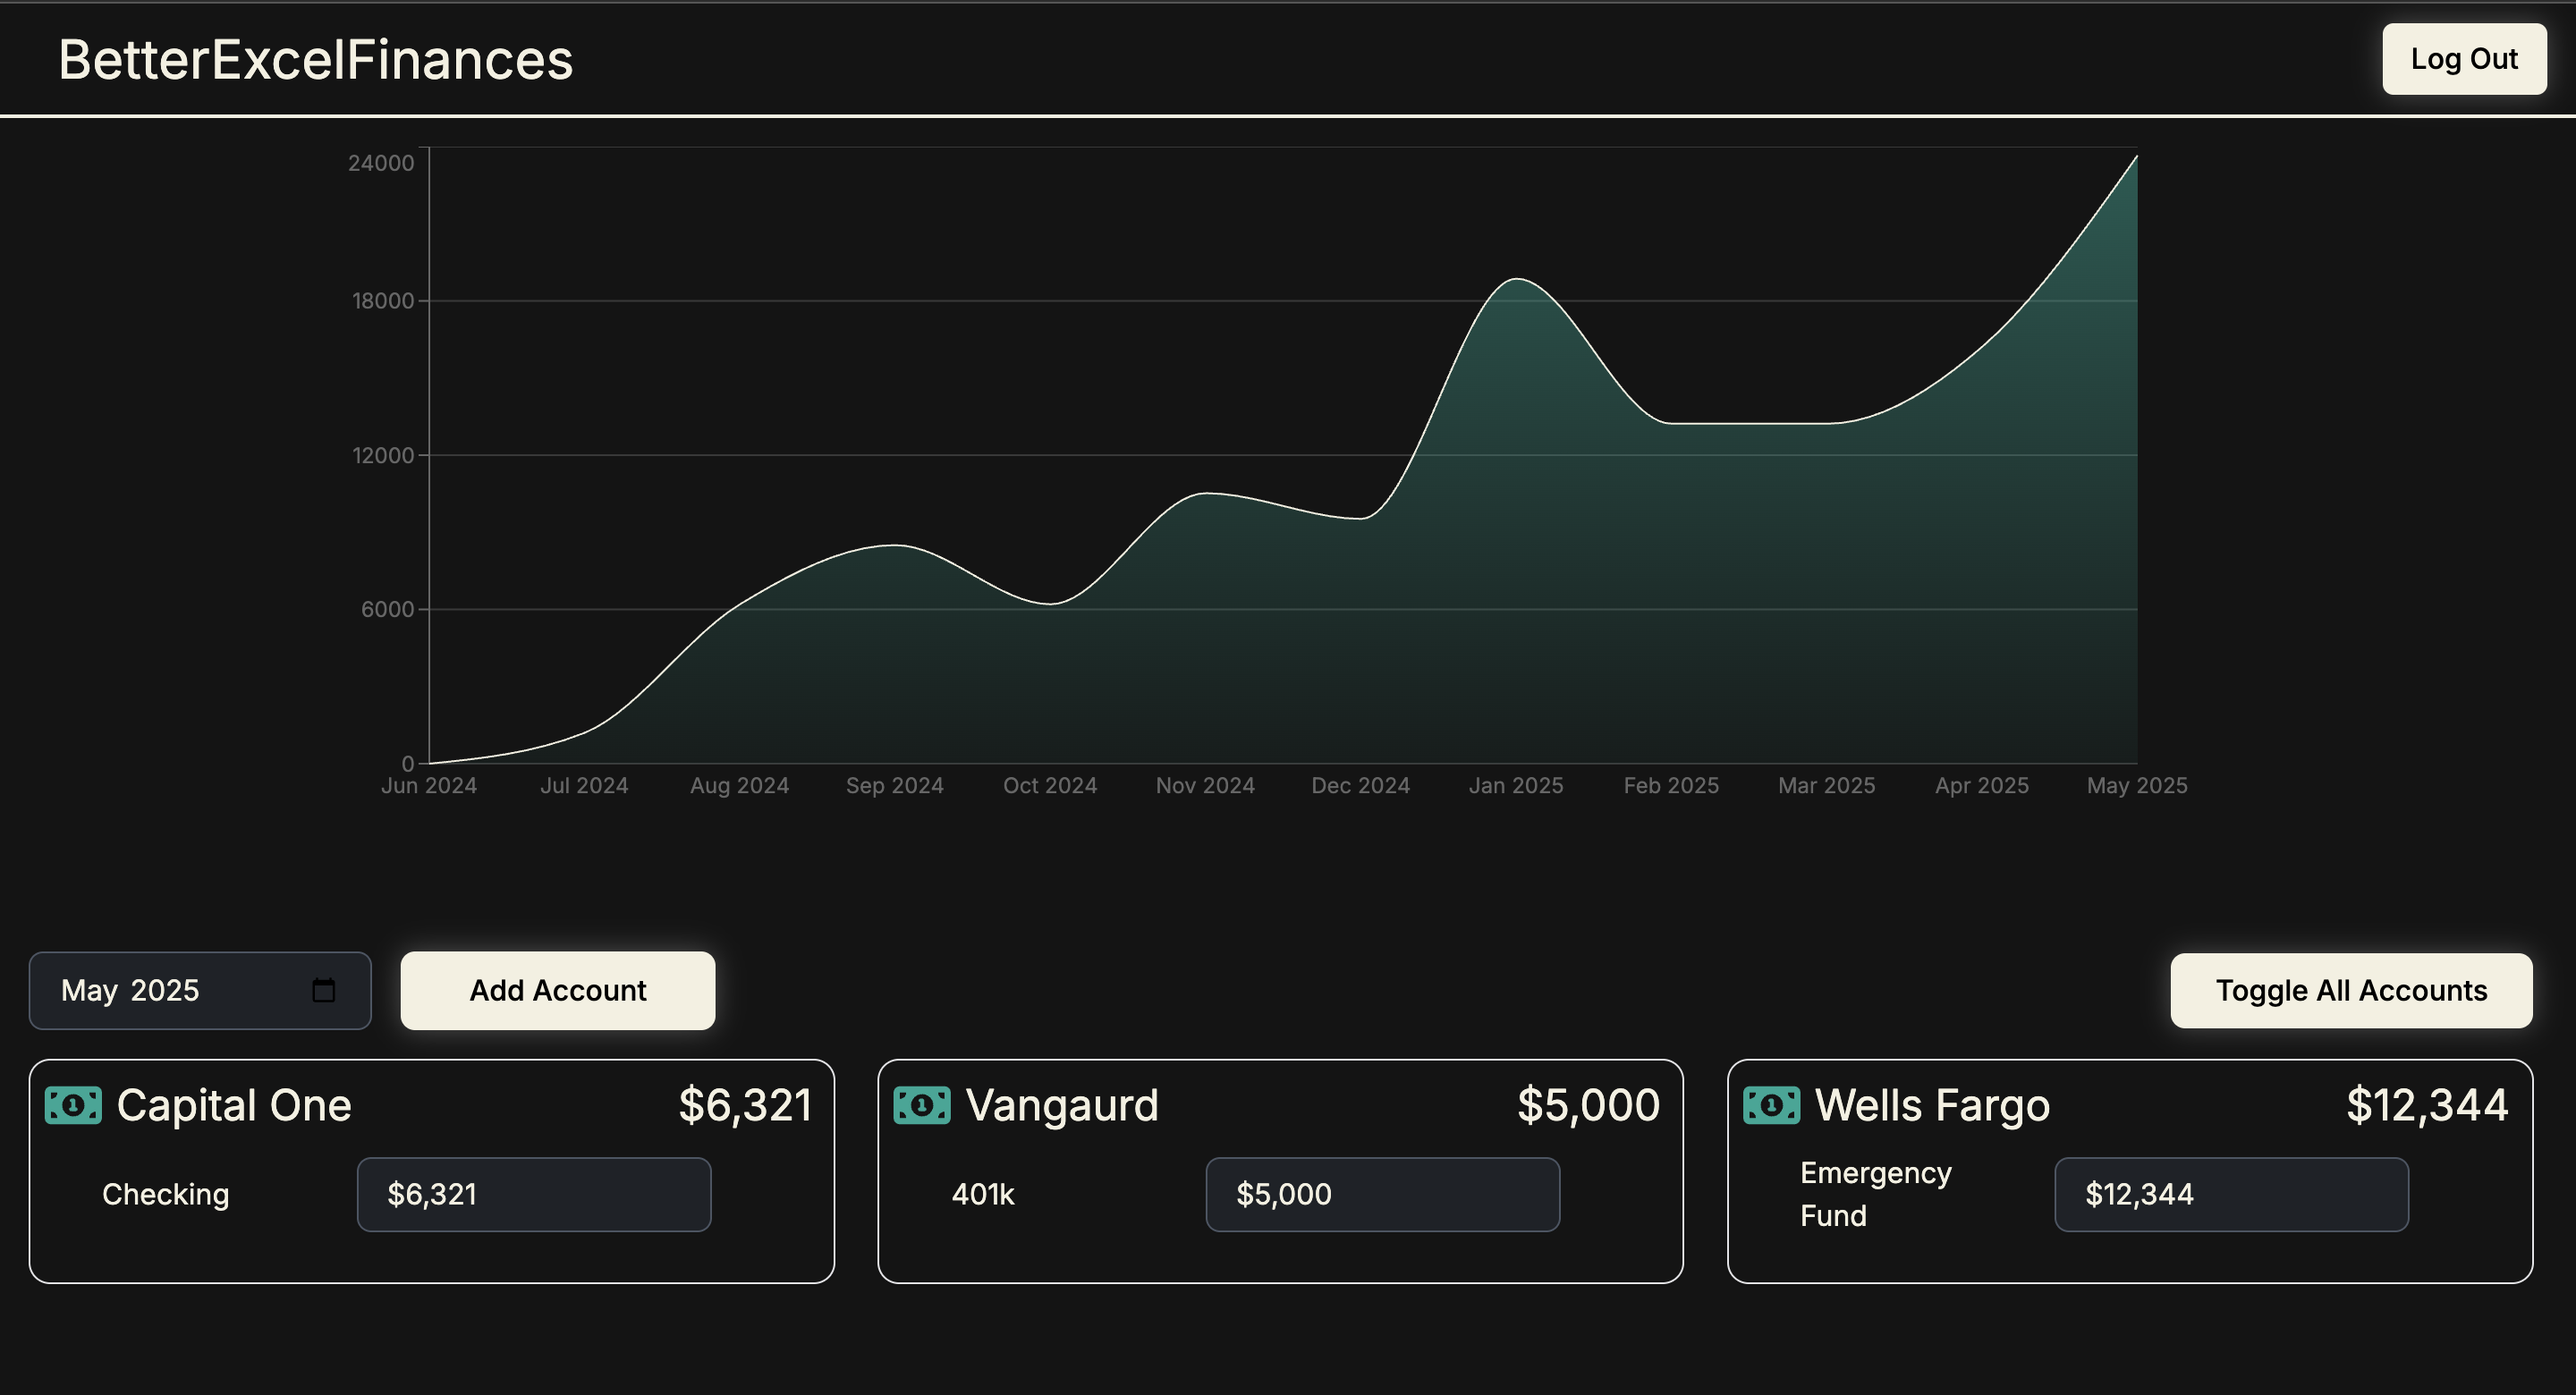
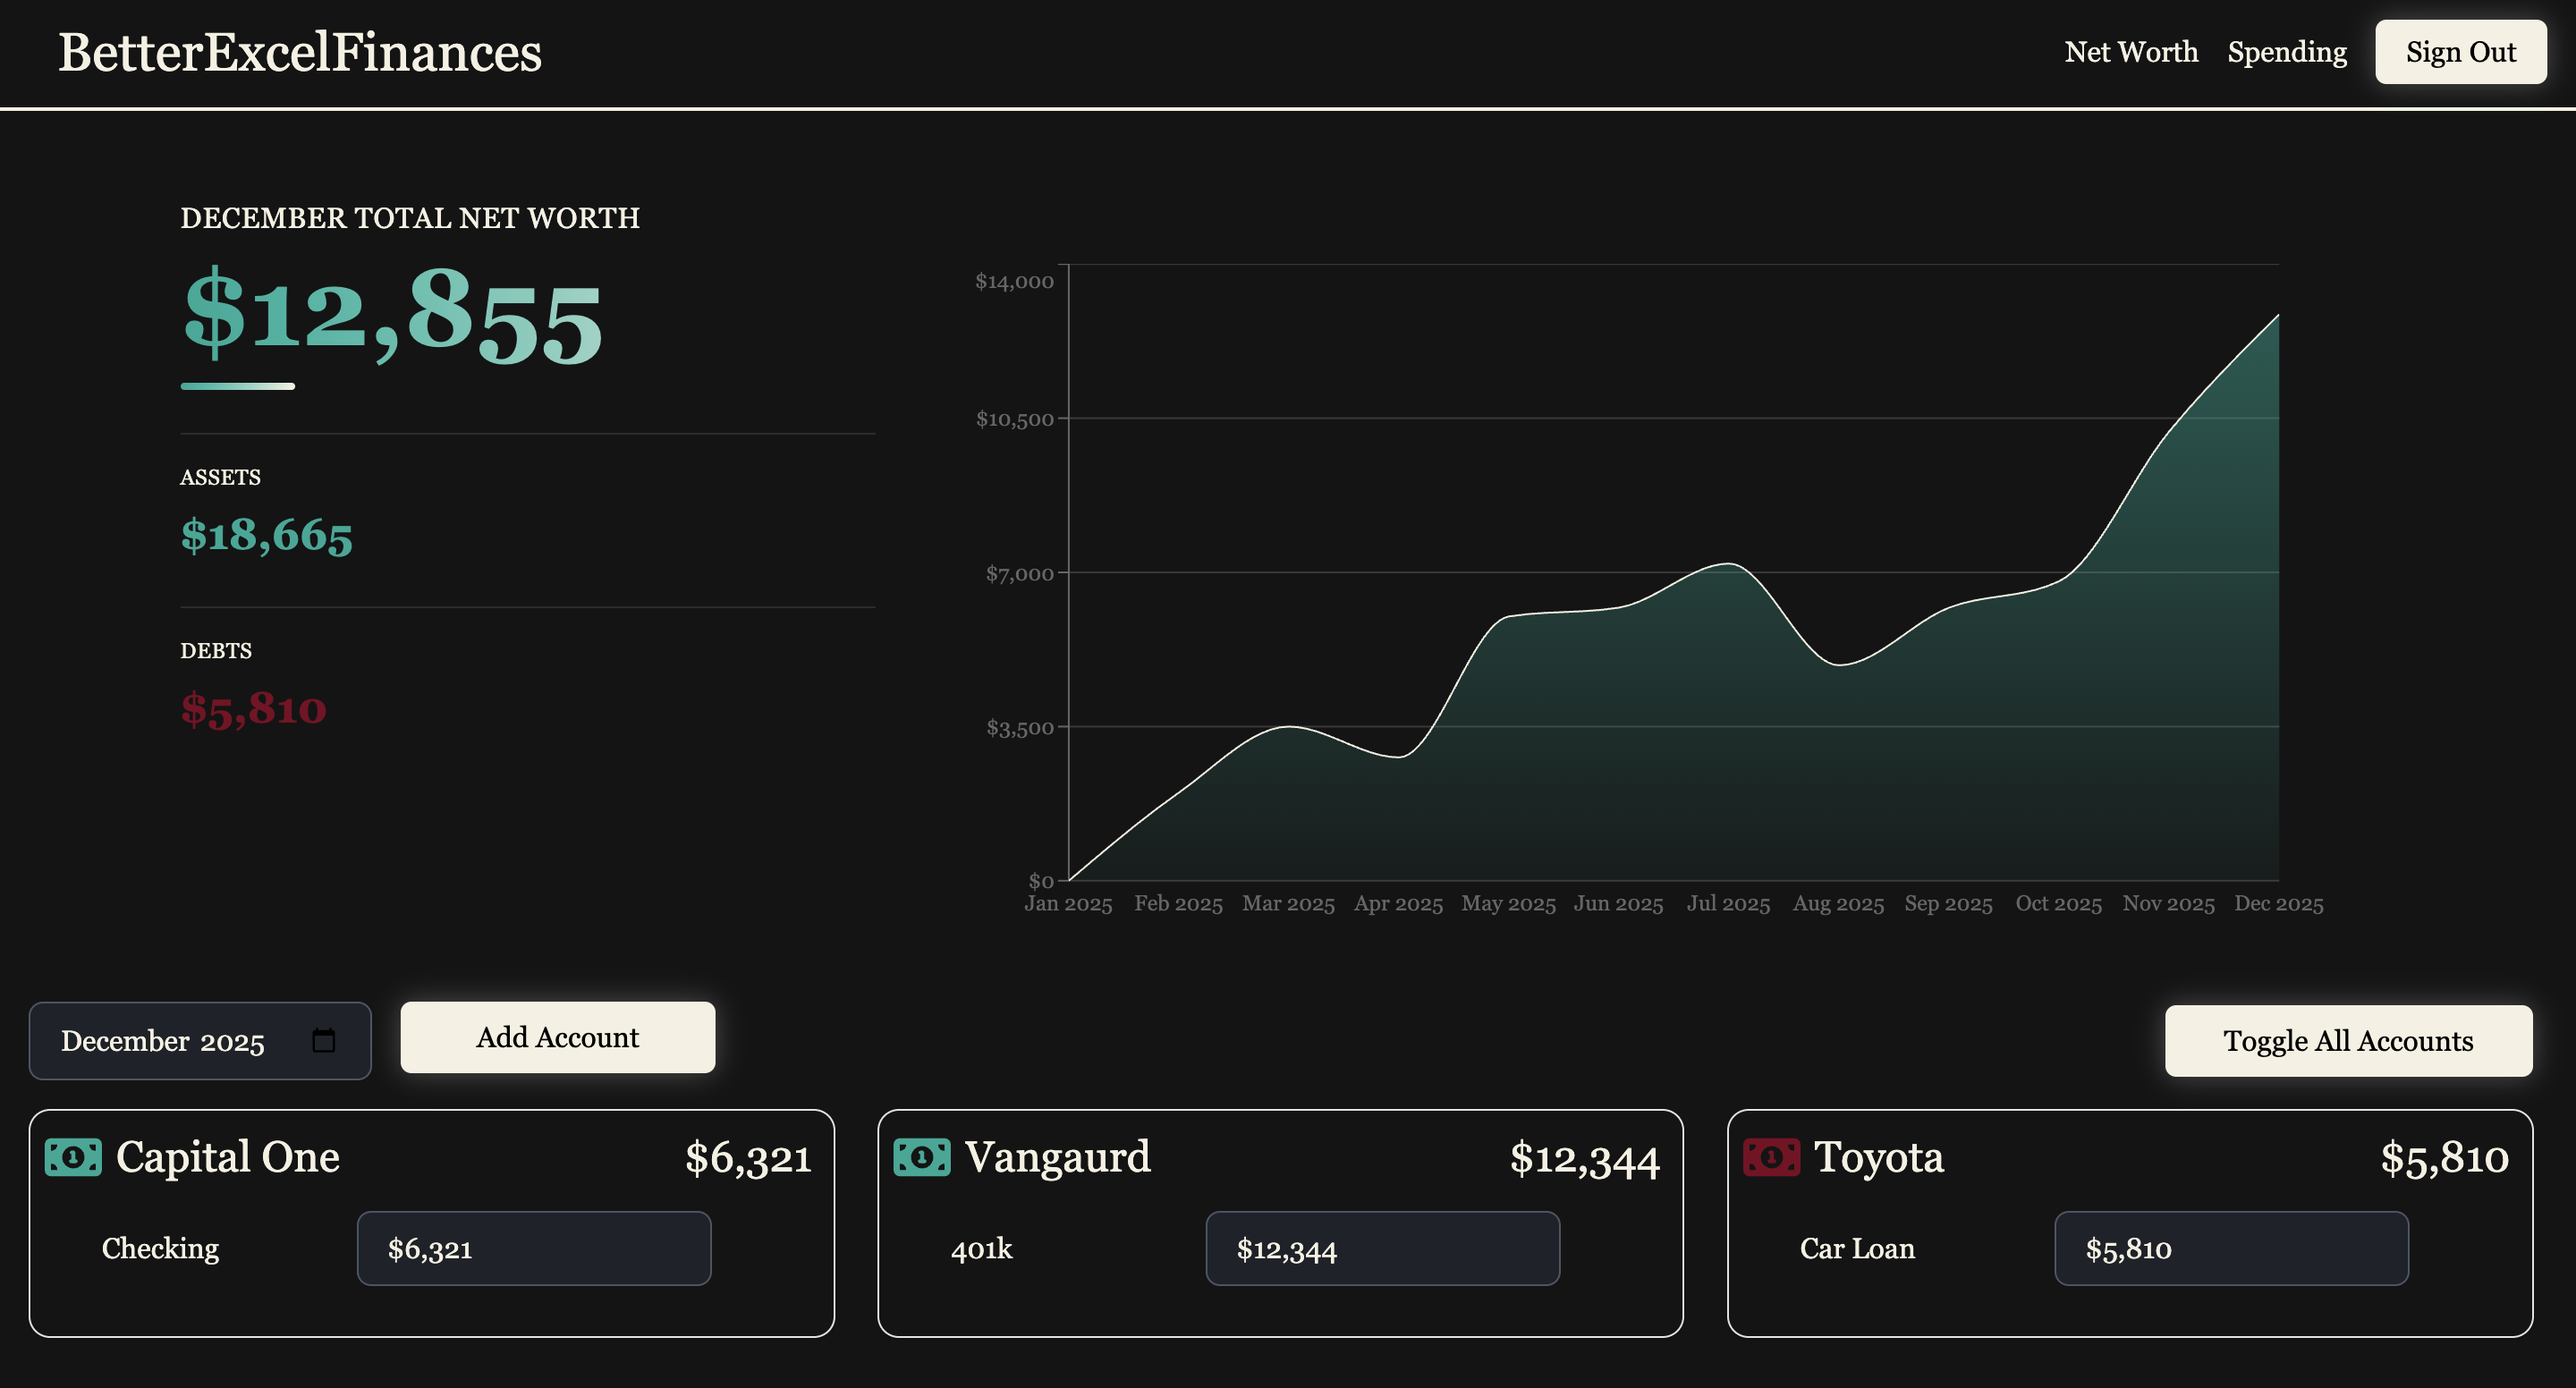
refactoring dashboard functionality and finishing off net worth

diff --git a/app/components/dashboard.tsx b/app/components/dashboard.tsx
@@ -6,48 +6,12 @@ import { MonthDashboard } from "./MonthDashboard";
 import { sortSections } from "../utils/accountUtils";
 import { gatherDataForMonth, generateNewTableData } from "../utils/monthUtils";
 import { updateTableData } from "../actions/financial";
+import { calculateNetWorth, formatCurrency } from "../utils/currencyUtils";
 
 interface Props {
   sections: FinancialSectionData[];
   tableDataInput: TableData[];
   date: Date;
-}
-interface NetWorthCalculation {
-  totalNetWorth: number;
-  totalAssets: number;
-  totalDebts: number;
-}
-
-function calculateNetWorth(
-  sections: FinancialSectionData[]
-): NetWorthCalculation {
-  let totalAssets = 0;
-  let totalDebts = 0;
-
-  sections.forEach((section) => {
-    const sectionTotal = section.values.reduce(
-      (sum, item) => sum + item.value,
-      0
-    );
-    if (section.assetClass?.toLowerCase() === "asset") {
-      totalAssets += sectionTotal;
-    } else if (section.assetClass?.toLowerCase() === "debt") {
-      totalDebts += Math.abs(sectionTotal);
-    }
-  });
-
-  return {
-    totalNetWorth: totalAssets - totalDebts,
-    totalAssets,
-    totalDebts,
-  };
-}
-
-function formatCurrency(value: number): string {
-  return new Intl.NumberFormat("en-US", {
-    style: "currency",
-    currency: "USD",
-  }).format(value);
 }
 
 export default function Dashboard({
@@ -87,15 +51,16 @@ export default function Dashboard({
   return (
     <div className="z-10 w-full h-[80%]">
       <div className="w-full flex items-center justify-center flex-col">
-        <div className="w-full pl-[7rem] pt-8 flex flex-wrap justify-center gap-6">
-          <div className="w-90  flex-shrink-0">
+        <div className="w-full px-8 pt-8 flex flex-wrap justify-center items-start">
+          <div className="w-[30%] min-w-[300px] pr-6">
             <div className="space-y-6">
               <div className="space-y-2">
                 <p className="text-[#f4f0e1] text-md font-medium tracking-wide uppercase">
-                  Total Net Worth
+                  {new Date(date.getFullYear(), date.getMonth() + 1, 1).toLocaleString("default", { month: "long" })} Total Net
+                  Worth
                 </p>
                 <h2
-                  className={`text-6xl font-bold bg-clip-text text-transparent bg-gradient-to-r ${
+                  className={`text-6xl font-bold bg-clip-text text-transparent bg-gradient-to-r text-ellipsis overflow-hidden text h-16 ${
                     netWorth.totalNetWorth >= 0
                       ? "from-[#00A896] to-[#f4f0e1]"
                       : "from-[#7B0323] to-[#f4f0e1]"
@@ -131,7 +96,7 @@ export default function Dashboard({
               </div>
             </div>
           </div>
-          <div className="flex-1 h-[450px] min-w-[800px]">
+          <div className="w-[60%] min-w-[400px] pl-6">
             <LineChart tableData={tableData} />
           </div>
         </div>

diff --git a/app/components/Line.tsx b/app/components/Line.tsx
@@ -11,6 +11,7 @@ import { type ChartConfig, ChartContainer } from "@/components/ui/chart";
 import { format } from "date-fns";
 import { TableData } from "../types";
 import { Tailspin } from "ldrs/react";
+import { formatCurrency } from "../utils/currencyUtils";
 import "ldrs/react/Tailspin.css";
 
 const chartConfig = {
@@ -33,8 +34,8 @@ export function LineChart({ tableData }: Readonly<Props>) {
     );
   }
   return (
-    <div className="min-h-[450px] max-h-[450px] w-full flex flex-col items-center gap-12">
-      <ChartContainer config={chartConfig} className="max-h-[375px] w-[75%]">
+    <div className="min-h-[450px] max-h-[450px] w-full flex flex-col items-center justify-center">
+      <ChartContainer config={chartConfig} className="max-h-[375px] w-full">
         <AreaChart
           data={tableData}
           margin={{ left: 0, right: 65, bottom: 0 }}
@@ -47,17 +48,25 @@ export function LineChart({ tableData }: Readonly<Props>) {
             axisLine={false}
             tickFormatter={(value) => format(new Date(value), "MMM yyyy")}
           ></XAxis>
-          <YAxis />
+          <YAxis tickFormatter={formatCurrency} />
           <Tooltip
             contentStyle={{
-              color: "#000000", // This changes the font color
+              color: "#000000",
               fontSize: "14px",
+              border: "none",
+              borderRadius: "4px",
+              backgroundColor: "#f4f0e1",
             }}
-            itemStyle={{
-              color: "#000000", // This changes the value color (y-axis values)
-            }}
-            labelStyle={{
-              color: "#000000", // This ensures the label (x-axis value) color is set
+            content={({ active, payload }) => {
+              if (active && payload?.length) {
+                return (
+                  <div className="bg-[#f4f0e1] rounded px-2 py-1">
+                    <div>{payload[0].payload.month}</div>
+                    <div>{formatCurrency(payload[0].value as number)}</div>
+                  </div>
+                );
+              }
+              return null;
             }}
           />
           <defs>

diff --git a/app/utils/currencyUtils.ts b/app/utils/currencyUtils.ts
@@ -1,0 +1,34 @@
+import { FinancialSectionData, NetWorthCalculation } from "../types";
+
+export function formatCurrency(value: number): string {
+  return new Intl.NumberFormat("en-US", {
+    style: "currency",
+    currency: "USD",
+    maximumFractionDigits: 0,
+  }).format(value);
+}
+
+export function calculateNetWorth(
+  sections: FinancialSectionData[]
+): NetWorthCalculation {
+  let totalAssets = 0;
+  let totalDebts = 0;
+
+  sections.forEach((section) => {
+    const sectionTotal = section.values.reduce(
+      (sum, item) => sum + item.value,
+      0
+    );
+    if (section.assetClass?.toLowerCase() === "asset") {
+      totalAssets += sectionTotal;
+    } else if (section.assetClass?.toLowerCase() === "debt") {
+      totalDebts += Math.abs(sectionTotal);
+    }
+  });
+
+  return {
+    totalNetWorth: totalAssets - totalDebts,
+    totalAssets,
+    totalDebts,
+  };
+}

diff --git a/app/utils/monthUtils.ts b/app/utils/monthUtils.ts
@@ -38,10 +38,10 @@ export const generateNewTableData = (update: {
   export const parseNewMonth = (monthInput:string) : Date => {
     const parts = monthInput.split("-");
     if (parts.length === 2) {
-      const year = parseInt(parts[0]);
-      const month = parseInt(parts[1]);
+      const year = Number.parseInt(parts[0]);
+      const month = Number.parseInt(parts[1]);
 
-      if (!isNaN(year) && !isNaN(month) && month >= 1 && month <= 12) {
+      if (!Number.isNaN(year) && !Number.isNaN(month) && month >= 1 && month <= 12) {
         const newDateAtUTCMidnight = new Date(Date.UTC(year, month - 1, 1));
           return(newDateAtUTCMidnight);
       } else {

diff --git a/app/components/nav.tsx b/app/components/nav.tsx
@@ -8,10 +8,10 @@ export function Nav() {
       <h1 className="text-3xl text-[#f4f0e1] ml-4">BetterExcelFinances</h1>
       <div className="flex gap-4 items-center ">
         <Link href="/dashboard" className="text-[#f4f0e1]">
-          Dashboard
+          Net Worth
         </Link>
         <Link href="/upload" className="text-[#f4f0e1]">
-          Upload
+          Spending
         </Link>
         <LogoutButton />
       </div>

diff --git a/app/dashboard/page.tsx b/app/dashboard/page.tsx
@@ -27,11 +27,14 @@ async function DashboardPage({ searchParams }: Props) {
     fetchTableData(),
   ]);
 
+  const dashboardDate = parseNewMonth(month);
+
   return (
     <Dashboard
+      key={dashboardDate.toUTCString()}
       tableDataInput={tableData}
       sections={userData}
-      date={parseNewMonth(month)}
+      date={dashboardDate}
     />
   );
 }

diff --git a/app/dashboard/layout.tsx b/app/dashboard/layout.tsx
@@ -9,7 +9,7 @@ interface Props {
 export default function DashboardLayout({ children }: Readonly<Props>) {
   return (
     <div className="dashboard h-screen">
-      <main className="h-full">
+      <main className="h-full font-serif">
         <Nav />
         {children}
       </main>

diff --git a/app/upload/layout.tsx b/app/upload/layout.tsx
@@ -9,7 +9,7 @@ interface Props {
 export default function UploadLayout({ children }: Readonly<Props>) {
   return (
     <div className="upload h-screen">
-      <main className="h-full">
+      <main className="h-full font-serif">
         <Nav />
         {children}
       </main>

diff --git a/app/types/financial.ts b/app/types/financial.ts
@@ -18,3 +18,9 @@ export type FinancialSectionItemData = {
     month: string;
     value: number;
   };
+
+export type NetWorthCalculation = {
+  totalNetWorth: number;
+  totalAssets: number;
+  totalDebts: number;
+}
